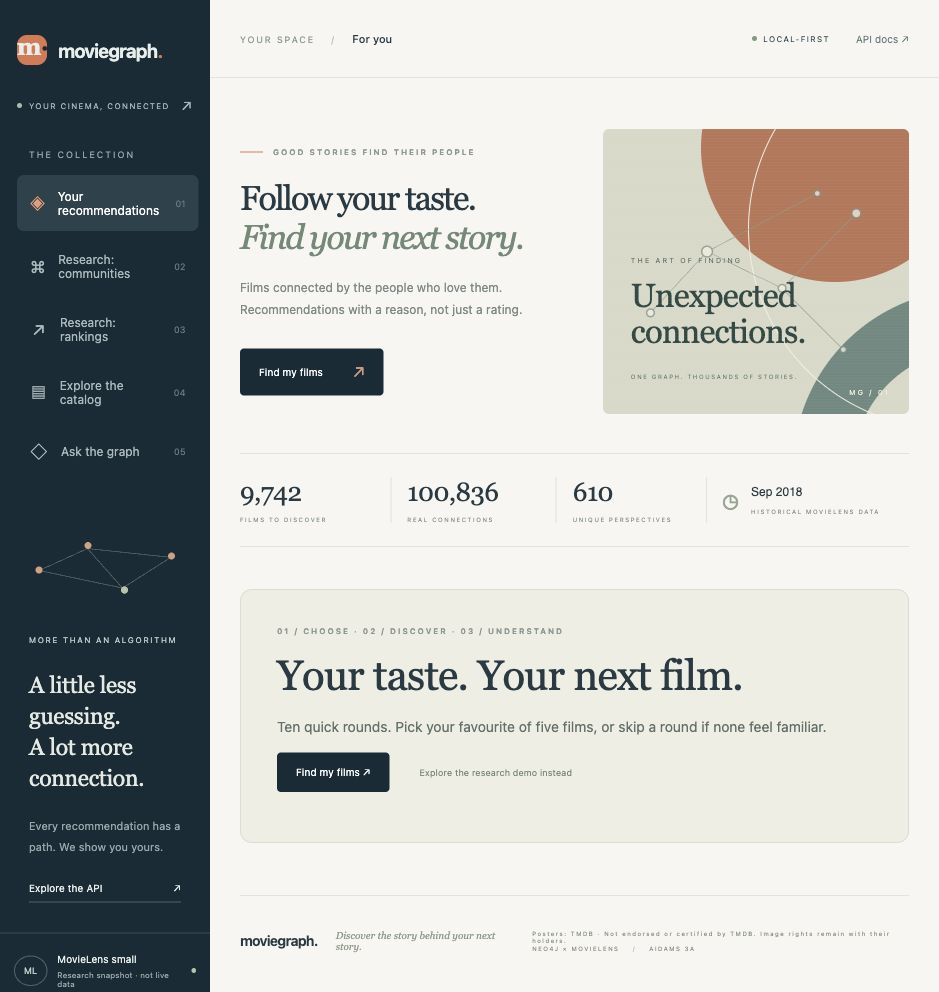
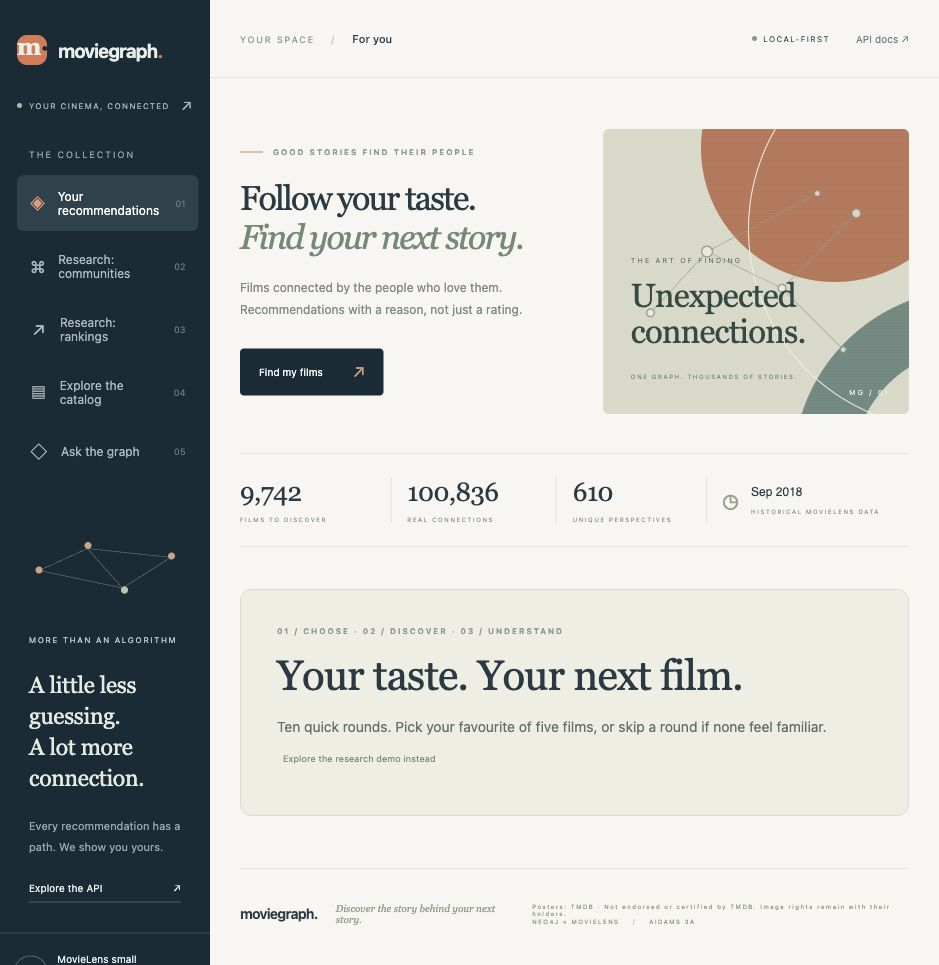
Show a single quiz start action on the welcome screen

diff --git a/app/static/app.js b/app/static/app.js
@@ -116,6 +116,7 @@ async function setView(view, updateAddress = true) {
   $("#welcome-screen").hidden = !home || taste.rounds.length > 0 || taste.demo;
   $("#graph-stats").hidden = !home || taste.rounds.length > 0 || taste.demo;
   $("#taste-section").hidden = !home;
+  $("#start-taste").hidden = !taste.rounds.length && !taste.demo;
   $("#taste-quiz").hidden =
     !home || !taste.rounds.length || taste.personal || taste.demo;
   $("#collection").hidden = !results;

diff --git a/app/static/index.html b/app/static/index.html
@@ -165,7 +165,7 @@
             if none feel familiar.
           </p>
           <div class="taste-actions">
-            <button id="start-taste" class="primary-link">
+            <button id="start-taste" class="primary-link" hidden>
               Find my films ↗</button
             ><button id="demo-mode" class="text-button">
               Explore the research demo instead
